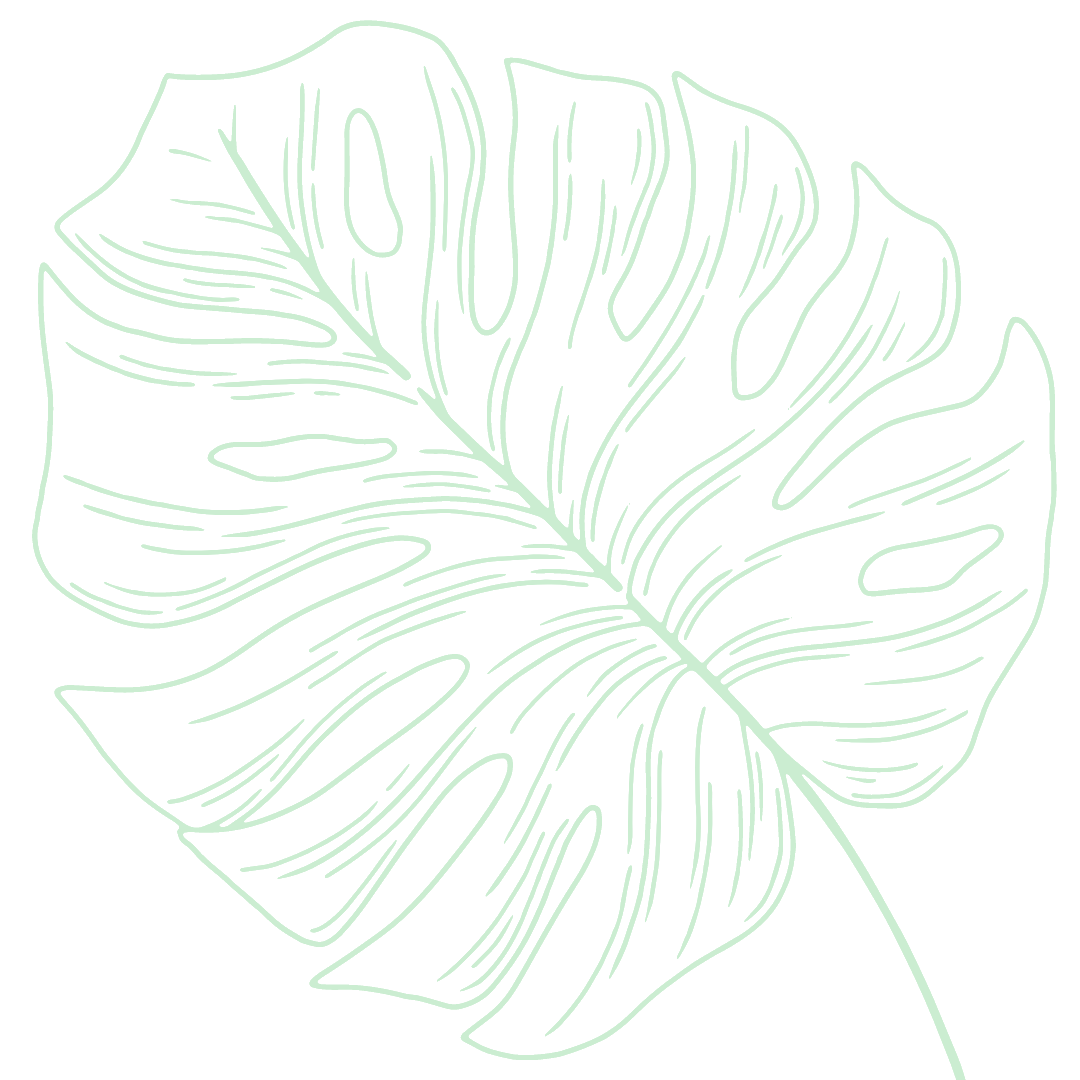
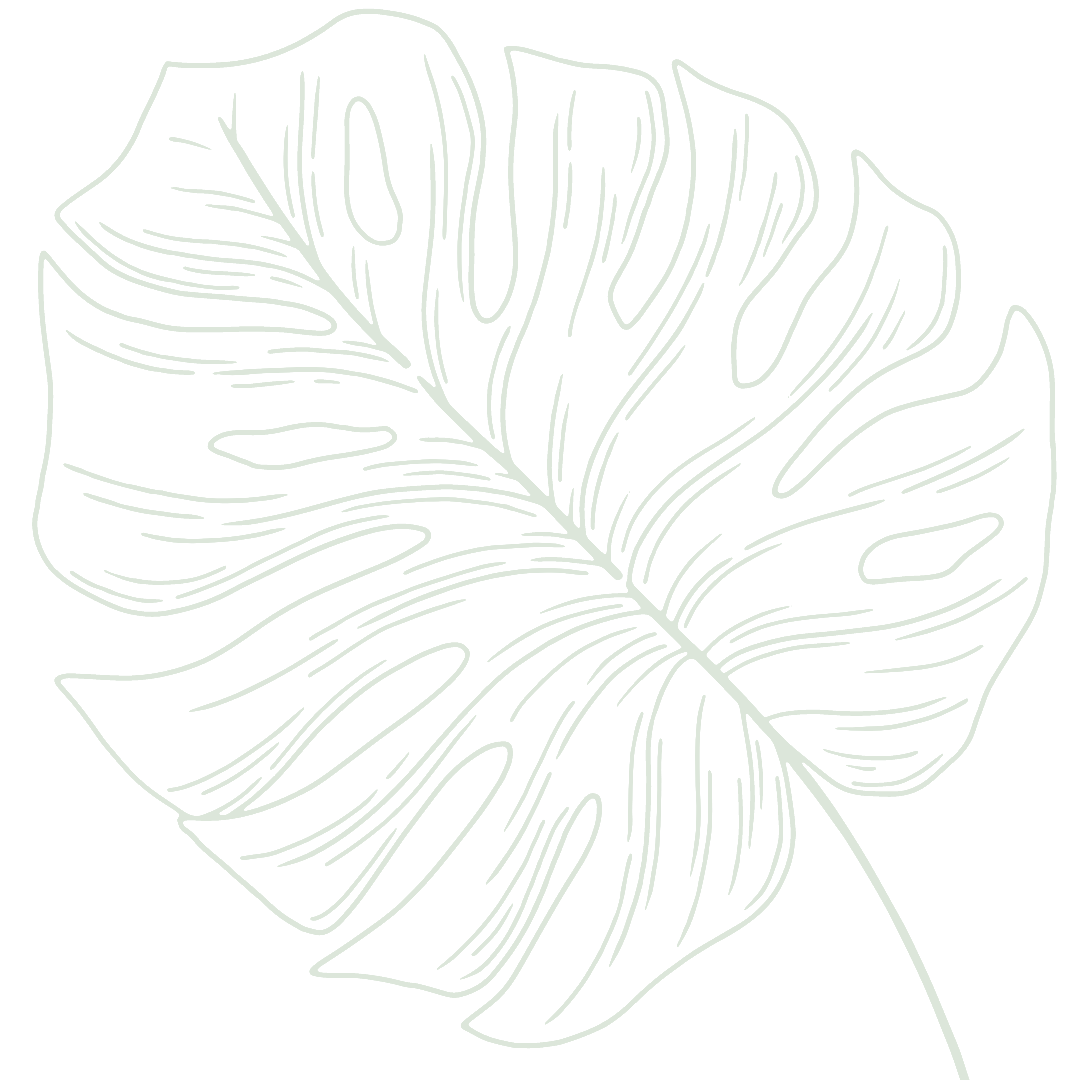
green tone

diff --git a/css/style2.css b/css/style2.css
@@ -65,7 +65,7 @@
 }
 
 .bg1 {
-  background-color: rgba(134, 229, 175, 0.4);
+  background-color: rgba(164, 210, 134, 0.4);
   border: 0;
 }
 .bg2 {
